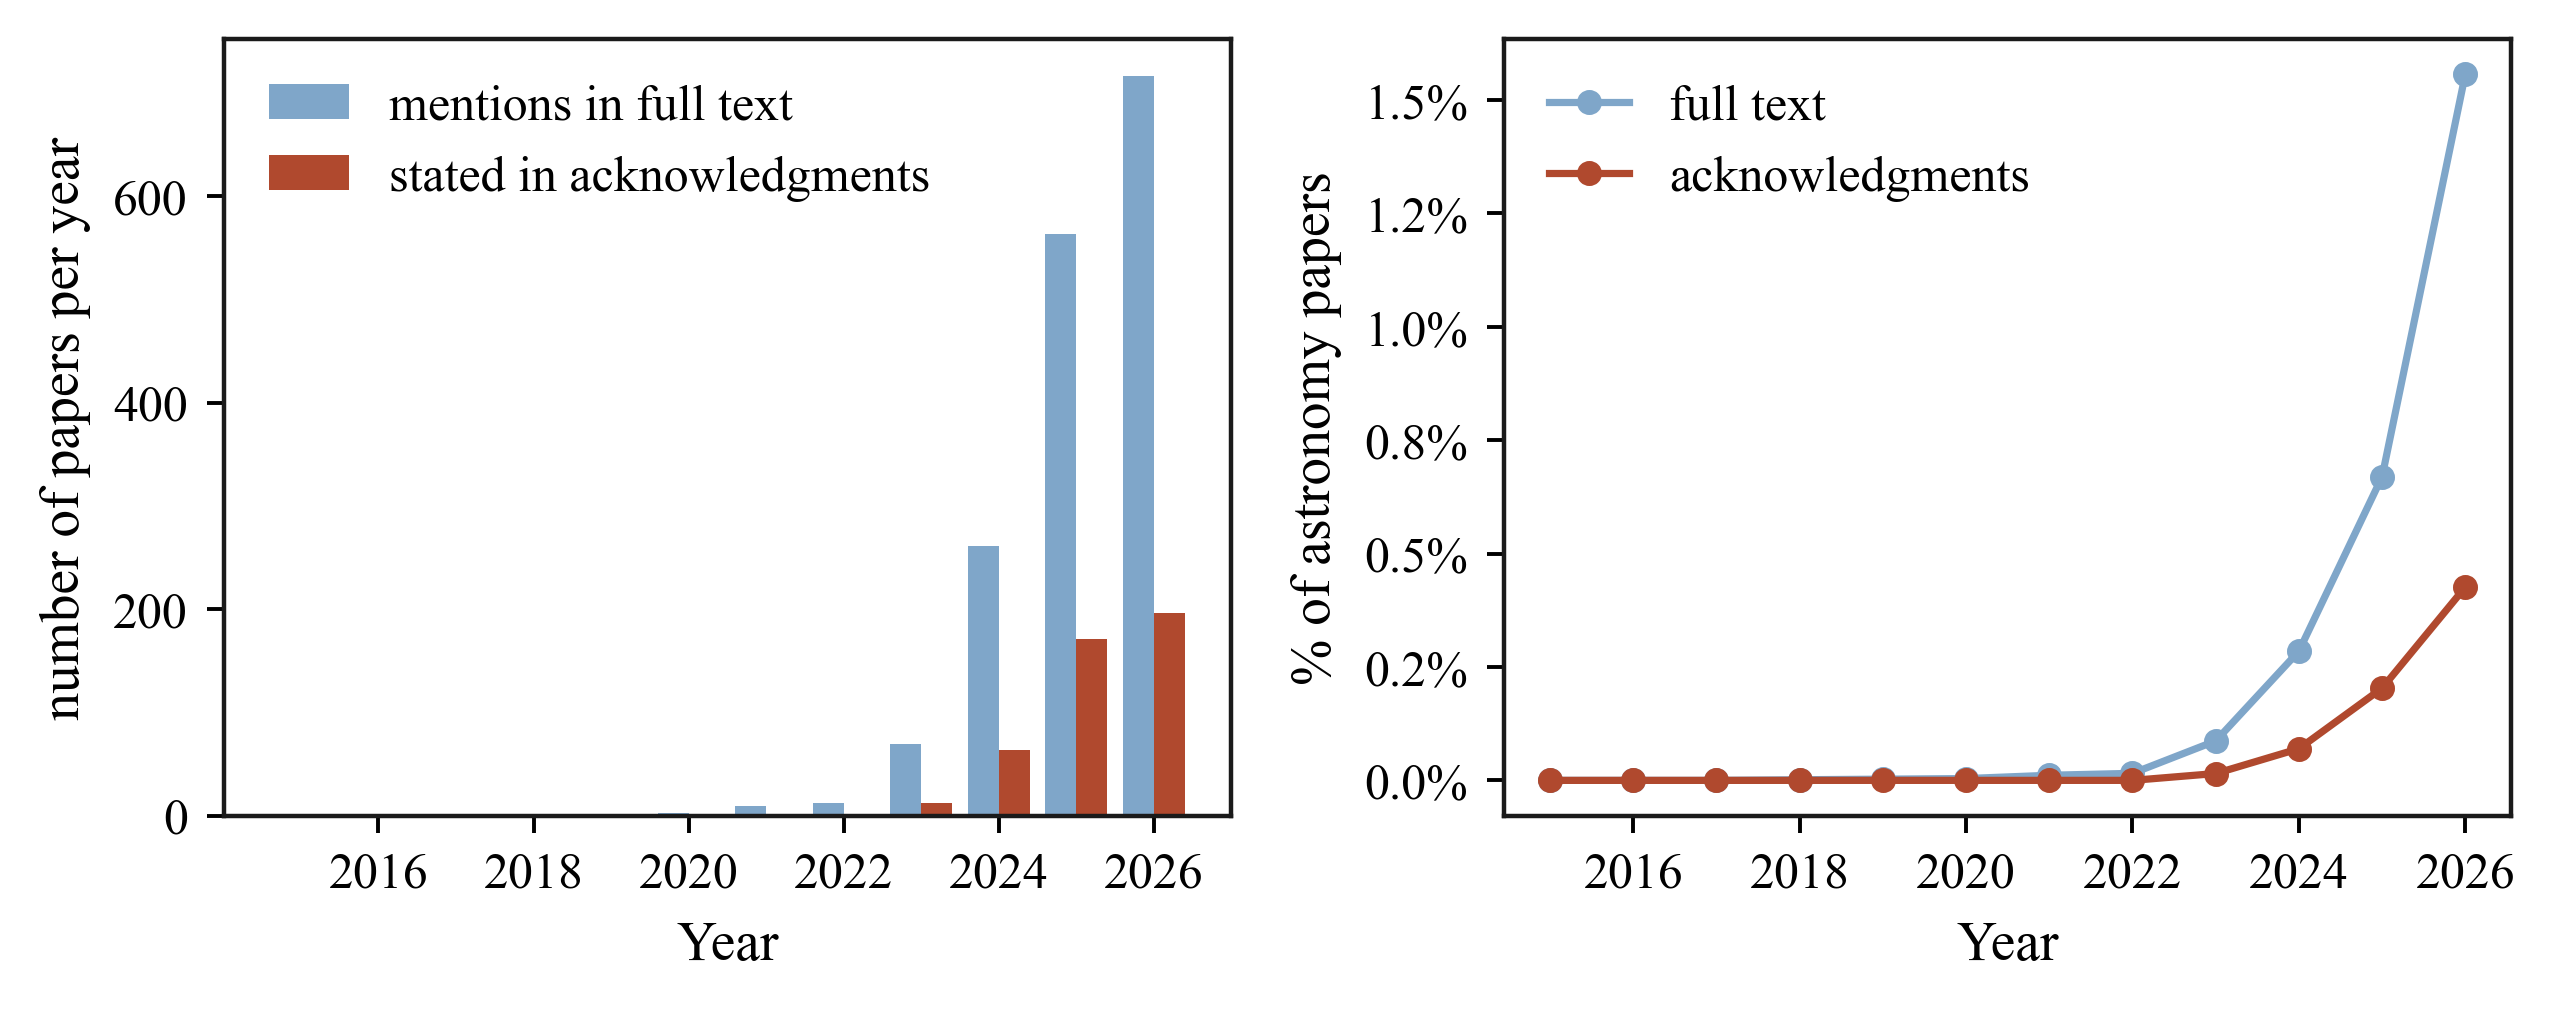
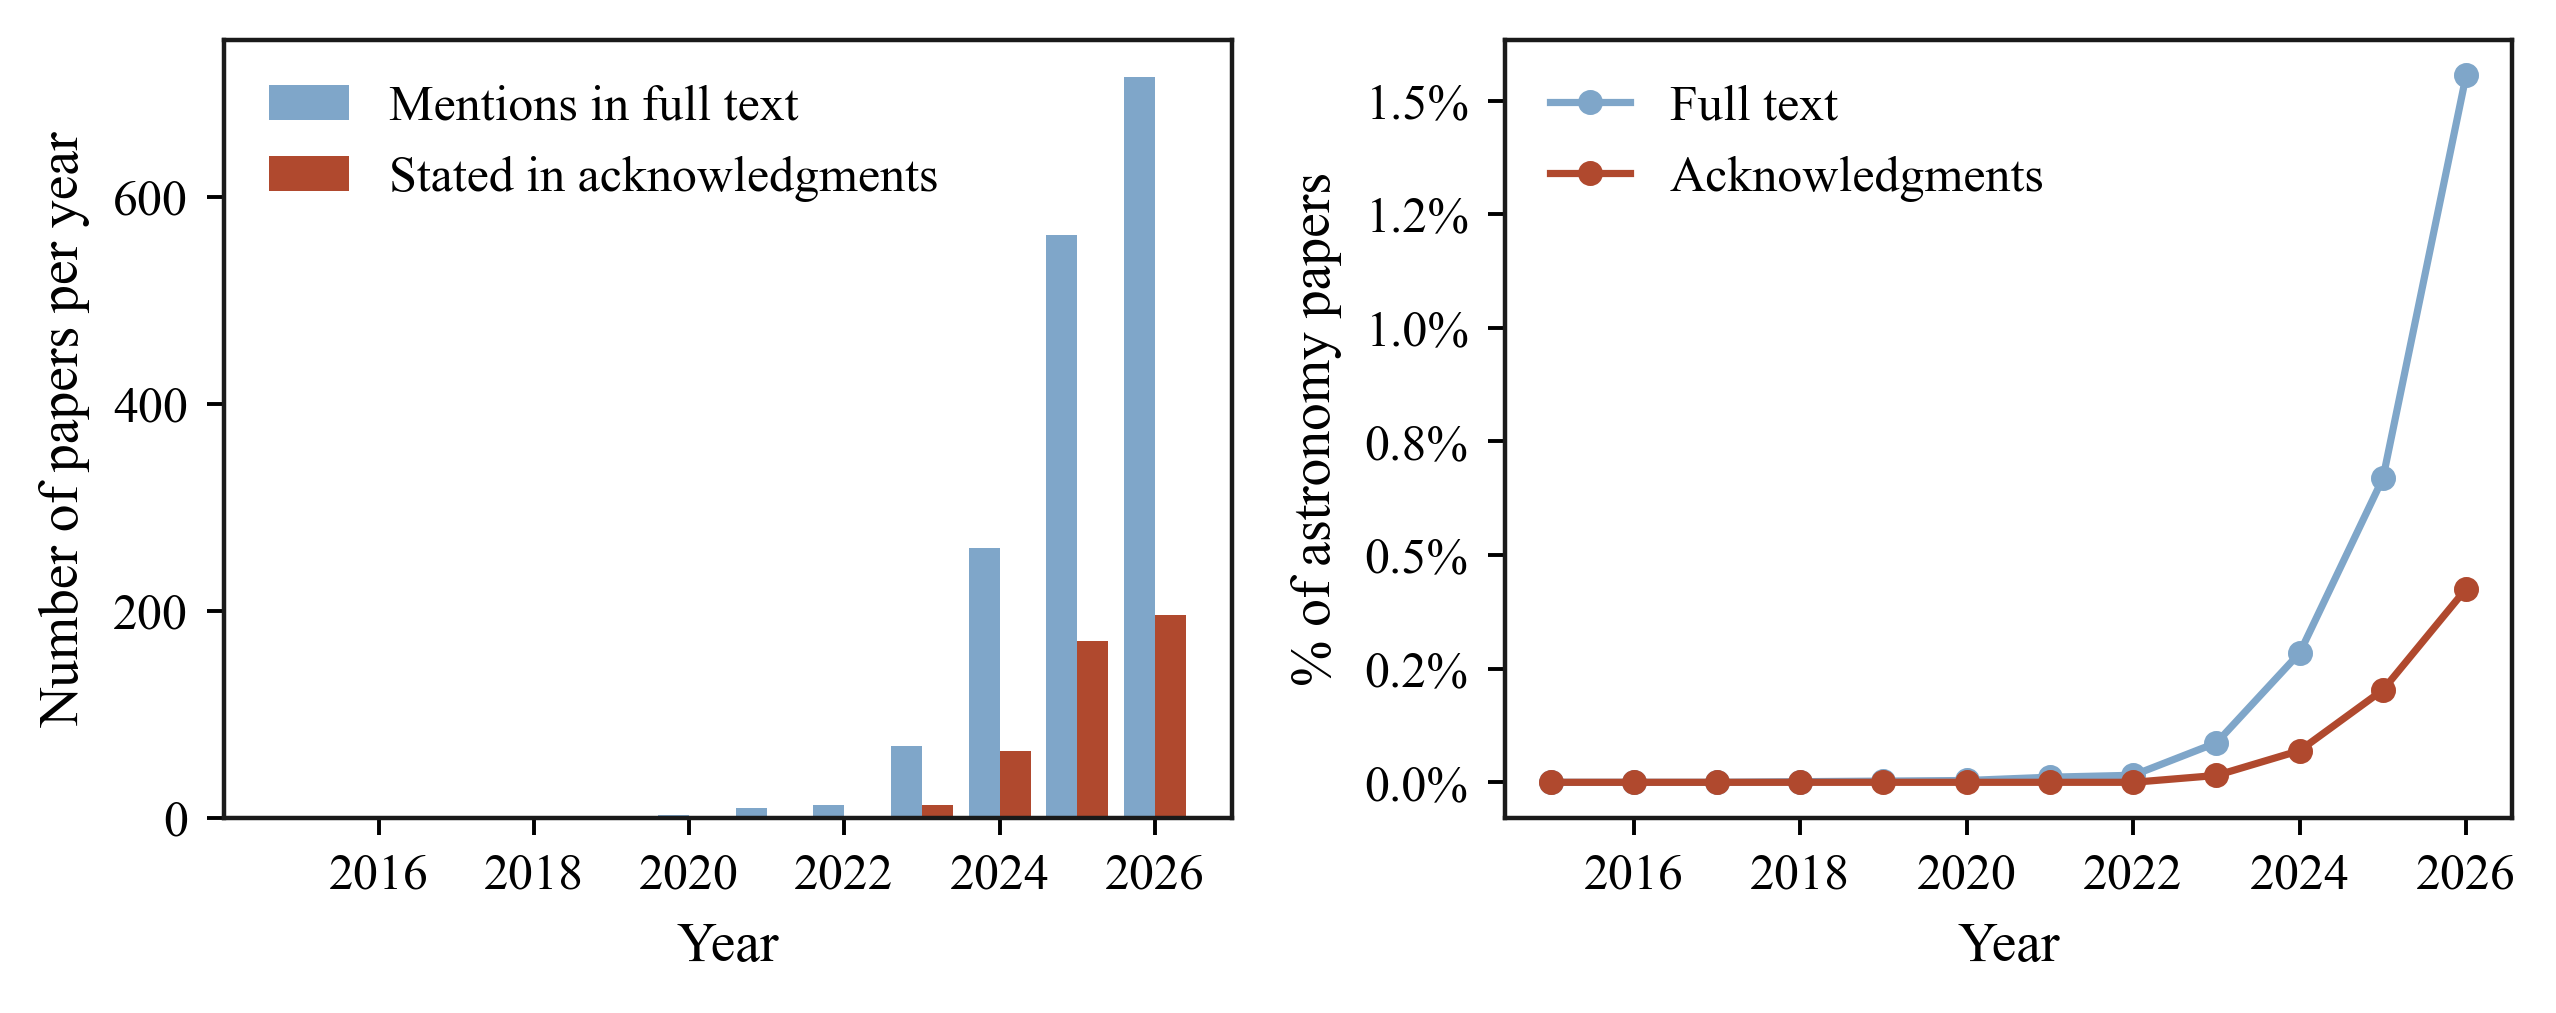
Figure polish: no bold text, capitalized axis and legend labels, hype-figure label fix
Remove bold from all in-figure text. Capitalize the first word of every axis
label and legend entry (symbols and studied words unchanged). Move the ChatGPT
marker in the hype/hedging figure to the clear band under the curves.

diff --git a/src/plots.py b/src/plots.py
@@ -88,7 +88,7 @@ def fig2_delve_collapse():
     top.set_xlim(2022, 2026.6)
     top.set_ylabel("% with any marker", fontsize=9)
     top.text(0.015, 0.93, "any marker word", transform=top.transAxes,
-             va="top", ha="left", fontsize=9.5, fontweight="bold")
+             va="top", ha="left", fontsize=9.5)
     top.tick_params(labelsize=9)
 
     for i, w in enumerate(words):
@@ -105,7 +105,7 @@ def fig2_delve_collapse():
         ax.set_xlim(2022, 2026.6)
         ax.set_ylim(0, max(d.freq.max()*100*1.25, 0.1))
         ax.text(0.05, 0.94, w, transform=ax.transAxes, va="top", ha="left",
-                fontsize=9.5, fontweight="bold")
+                fontsize=9.5)
         ax.tick_params(labelsize=8.5)
         ax.set_xticks([2022, 2024, 2026])
         if i == 0:
@@ -156,10 +156,10 @@ def fig3_discovery():
         axA.scatter(g.rec_freq*100, g.ratio, s=10, color=kcol[k], zorder=4, linewidths=0)
     axA.axhline(5, color=C["grey"], ls="--", lw=0.7, zorder=2)
     axA.set_xlim(3e-3, 30); axA.set_ylim(0.25, 40)
-    axA.set_xlabel("frequency in 2024-2026 (% of abstracts)")
-    axA.set_ylabel("frequency ratio, 2024-2026 / 2018-2021")
+    axA.set_xlabel("Frequency in 2024-2026 (% of abstracts)")
+    axA.set_ylabel("Frequency ratio, 2024-2026 / 2018-2021")
     axA.text(0.025, 0.97, "(a) single words", transform=axA.transAxes,
-             va="top", ha="left", fontsize=9.5, fontweight="bold", zorder=7)
+             va="top", ha="left", fontsize=9.5, zorder=7)
     show_a = ["nircam", "miri", "nirspec", "jwst", "desi",
               "interpretable", "leveraging", "offering", "pivotal",
               "intricate", "highlighting", "delve"]
@@ -181,9 +181,9 @@ def fig3_discovery():
         axB.scatter(g.rec_freq*100, g.ratio, s=10, color=kcol[k], zorder=4, linewidths=0)
     axB.axhline(5, color=C["grey"], ls="--", lw=0.7, zorder=2)
     axB.set_xlim(3e-3, 30); axB.set_ylim(0.25, 40)
-    axB.set_xlabel("frequency in 2024-2026 (% of abstracts)")
+    axB.set_xlabel("Frequency in 2024-2026 (% of abstracts)")
     axB.text(0.025, 0.97, "(b) two-word phrases", transform=axB.transAxes,
-             va="top", ha="left", fontsize=9.5, fontweight="bold", zorder=7)
+             va="top", ha="left", fontsize=9.5, zorder=7)
     show_b = ["jwst observations", "the desi", "leveraging the", "insights into"]
     annb = selb[selb.bigram.isin(show_b)]
     othb = selb[~selb.bigram.isin(show_b)]
@@ -195,9 +195,9 @@ def fig3_discovery():
     from matplotlib.lines import Line2D
     axA.legend(handles=[
         Line2D([0],[0], marker="o", color="w", markerfacecolor=C["blue"], ms=4,
-               label="new instrument / survey / topic"),
+               label="New instrument / survey / topic"),
         Line2D([0],[0], marker="o", color="w", markerfacecolor=C["vermillion"], ms=4,
-               label="style word / phrase"),
+               label="Style word / phrase"),
         Line2D([0],[0], marker="o", color="w", markerfacecolor=C["green"], ms=4,
                label="ML method term")],
         loc="lower left", fontsize=9, handletextpad=0.3)
@@ -213,18 +213,18 @@ def fig4_disclosure():
     full = [d["full"][str(y)] for y in yrs]
     tot = [d["total_astro"][str(y)] for y in yrs]
     fig, (ax1, ax2) = plt.subplots(1, 2, figsize=(6.5, 2.74))
-    ax1.bar([y-0.2 for y in yrs], full, width=0.4, color=C["sky"], label="mentions in full text")
+    ax1.bar([y-0.2 for y in yrs], full, width=0.4, color=C["sky"], label="Mentions in full text")
     ax1.bar([y+0.2 for y in yrs], ack, width=0.4, color=C["vermillion"],
-            label="stated in acknowledgments")
+            label="Stated in acknowledgments")
     from pantera_style import no_minor_x
     no_minor_x(ax1)
-    ax1.set_ylabel("number of papers per year"); ax1.set_xlabel("Year")
+    ax1.set_ylabel("Number of papers per year"); ax1.set_xlabel("Year")
     ax1.legend(fontsize=9, loc="upper left"); ax1.set_xticks(range(2016,2027,2))
     # fraction
     frac_ack = [100*a/t for a,t in zip(ack,tot)]
     frac_full = [100*f/t for f,t in zip(full,tot)]
-    ax2.plot(yrs, frac_full, "-o", color=C["sky"], lw=1.3, label="full text")
-    ax2.plot(yrs, frac_ack, "-o", color=C["vermillion"], lw=1.3, label="acknowledgments")
+    ax2.plot(yrs, frac_full, "-o", color=C["sky"], lw=1.3, label="Full text")
+    ax2.plot(yrs, frac_ack, "-o", color=C["vermillion"], lw=1.3, label="Acknowledgments")
     ax2.set_ylabel("% of astronomy papers"); ax2.set_xlabel("Year")
     ax2.legend(fontsize=9); ax2.set_xticks(range(2016,2027,2))
     ax2.yaxis.set_major_formatter(PercentFormatter(decimals=1))

diff --git a/src/plots2.py b/src/plots2.py
@@ -28,8 +28,8 @@ def fig7_hype_hedge():
     ax.plot(d.year, d.hedge_idx, "-s", color=C["blue"], lw=1.3, ms=3.4,
             label="Hedging words (may, might, suggest, likely, ...)")
     ax.axvline(2022.85, color=C["grey"], ls="--", lw=1)
-    ax.text(2022.7, 126.5, "ChatGPT", rotation=90, va="top", ha="right", fontsize=9.5, color=C["grey"])
-    ax.set_ylabel("frequency, indexed to 2015-19 = 100"); ax.set_xlabel("Year")
+    ax.text(2023.05, 90.7, "ChatGPT", va="bottom", ha="left", fontsize=9, color=C["grey"])
+    ax.set_ylabel("Frequency, indexed to 2015-19 = 100"); ax.set_xlabel("Year")
     ax.set_ylim(90, 128)
     ax.legend(loc="upper left", fontsize=9)
     ax.set_xticks(range(2015, 2027, 2))
@@ -48,11 +48,11 @@ def fig8_detectability():
 
     fig, (axL, axR) = plt.subplots(1, 2, figsize=(6.5, 2.77))
     # LEFT: marker clusters quarterly
-    axL.plot(s.yq, s.all_markers*100, color=C["black"], lw=1.4, label="all markers", zorder=5)
+    axL.plot(s.yq, s.all_markers*100, color=C["black"], lw=1.4, label="All markers", zorder=5)
     axL.plot(s.yq, s.collapsing*100, "-o", ms=2.8, color=C["vermillion"], lw=1.2,
-             label="early tells")
+             label="Early tells")
     axL.plot(s.yq, s.rising*100, "-o", ms=2.8, color=C["green"], lw=1.2,
-             label="late tells")
+             label="Late tells")
     axL.set_xlabel("Year (quarterly)"); axL.set_ylabel("% of abstracts with marker(s)")
     axL.legend(loc="upper left", fontsize=9)
     axL.set_xlim(2022, 2026.6)

diff --git a/src/plots_ngram.py b/src/plots_ngram.py
@@ -25,7 +25,7 @@ def fig_ngram_viewer():
     ax.set_ylim(-0.1, 2.8)
     ax.text(2022.7, 1.55, "ChatGPT", rotation=90, va="top",
             ha="right", fontsize=9, color=C["grey"])
-    ax.set_xlabel("Year"); ax.set_ylabel("fraction of abstracts with the phrase (%)")
+    ax.set_xlabel("Year"); ax.set_ylabel("Fraction of abstracts with the phrase (%)")
     ax.legend(fontsize=9, loc="center left", bbox_to_anchor=(0.03, 0.40))
     ax.set_xticks(range(2015, 2026, 2))
     fig.tight_layout()
@@ -78,7 +78,7 @@ def fig_cooccur():
                         ha="center", va="center", fontsize=8.5,
                         color="white" if v > 30 else "#333")
     cb = fig.colorbar(im, ax=ax, fraction=0.046, pad=0.04)
-    cb.set_label("co-occurrence lift (1 = independent)", fontsize=9)
+    cb.set_label("Co-occurrence lift (1 = independent)", fontsize=9)
     fig.tight_layout()
     fig.savefig(os.path.join(FIGS, "fig_cooccur.png"), bbox_inches="tight"); plt.close(fig)
 

diff --git a/src/pantera_style.py b/src/pantera_style.py
@@ -37,7 +37,7 @@ def apply():
         "svg.fonttype": "none", "pdf.fonttype": 42,
         # match the paper's 10 pt body text
         "font.size": 10, "axes.labelsize": 10,
-        "axes.titlesize": 10.5, "axes.titleweight": "bold",
+        "axes.titlesize": 10.5, "axes.titleweight": "normal",
         "xtick.labelsize": 9, "ytick.labelsize": 9,
         "legend.fontsize": 9,
         # full box, thin
